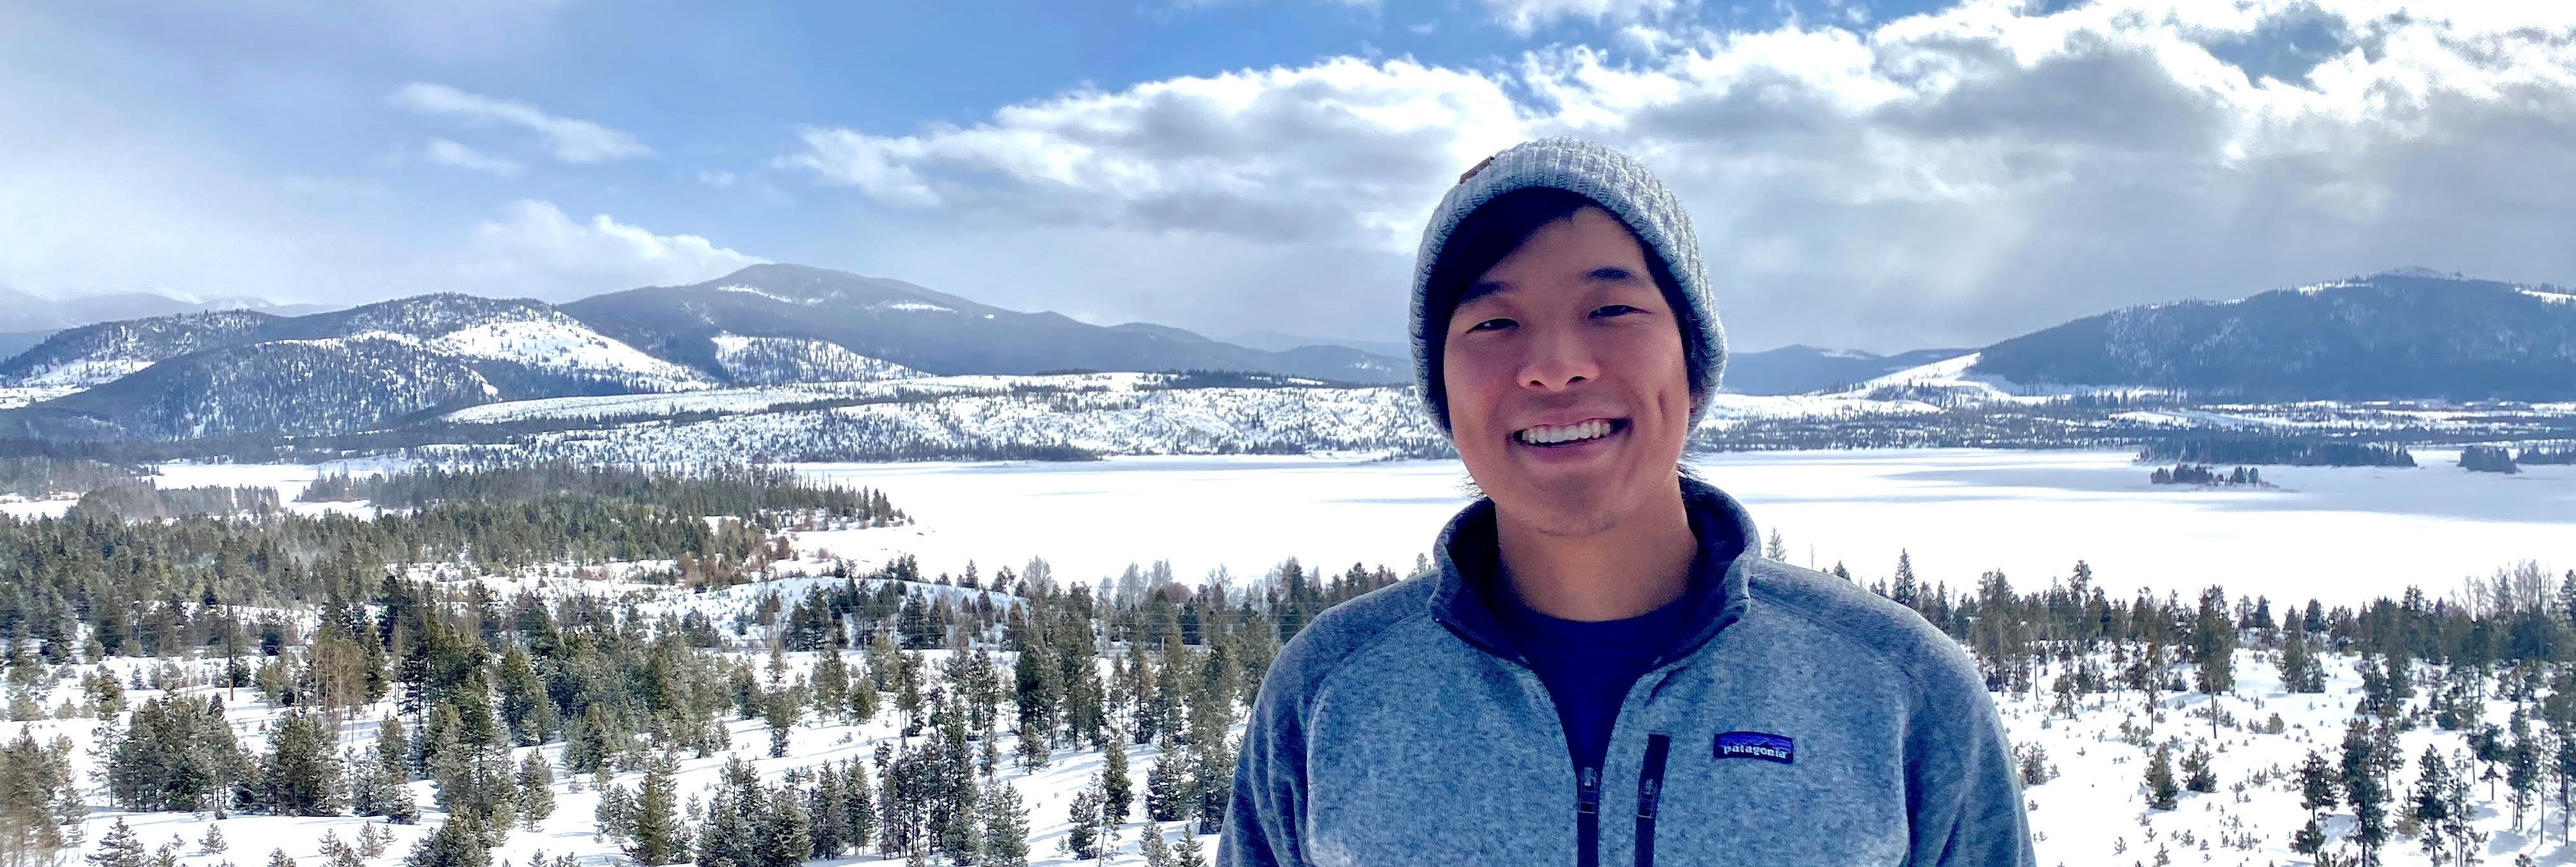
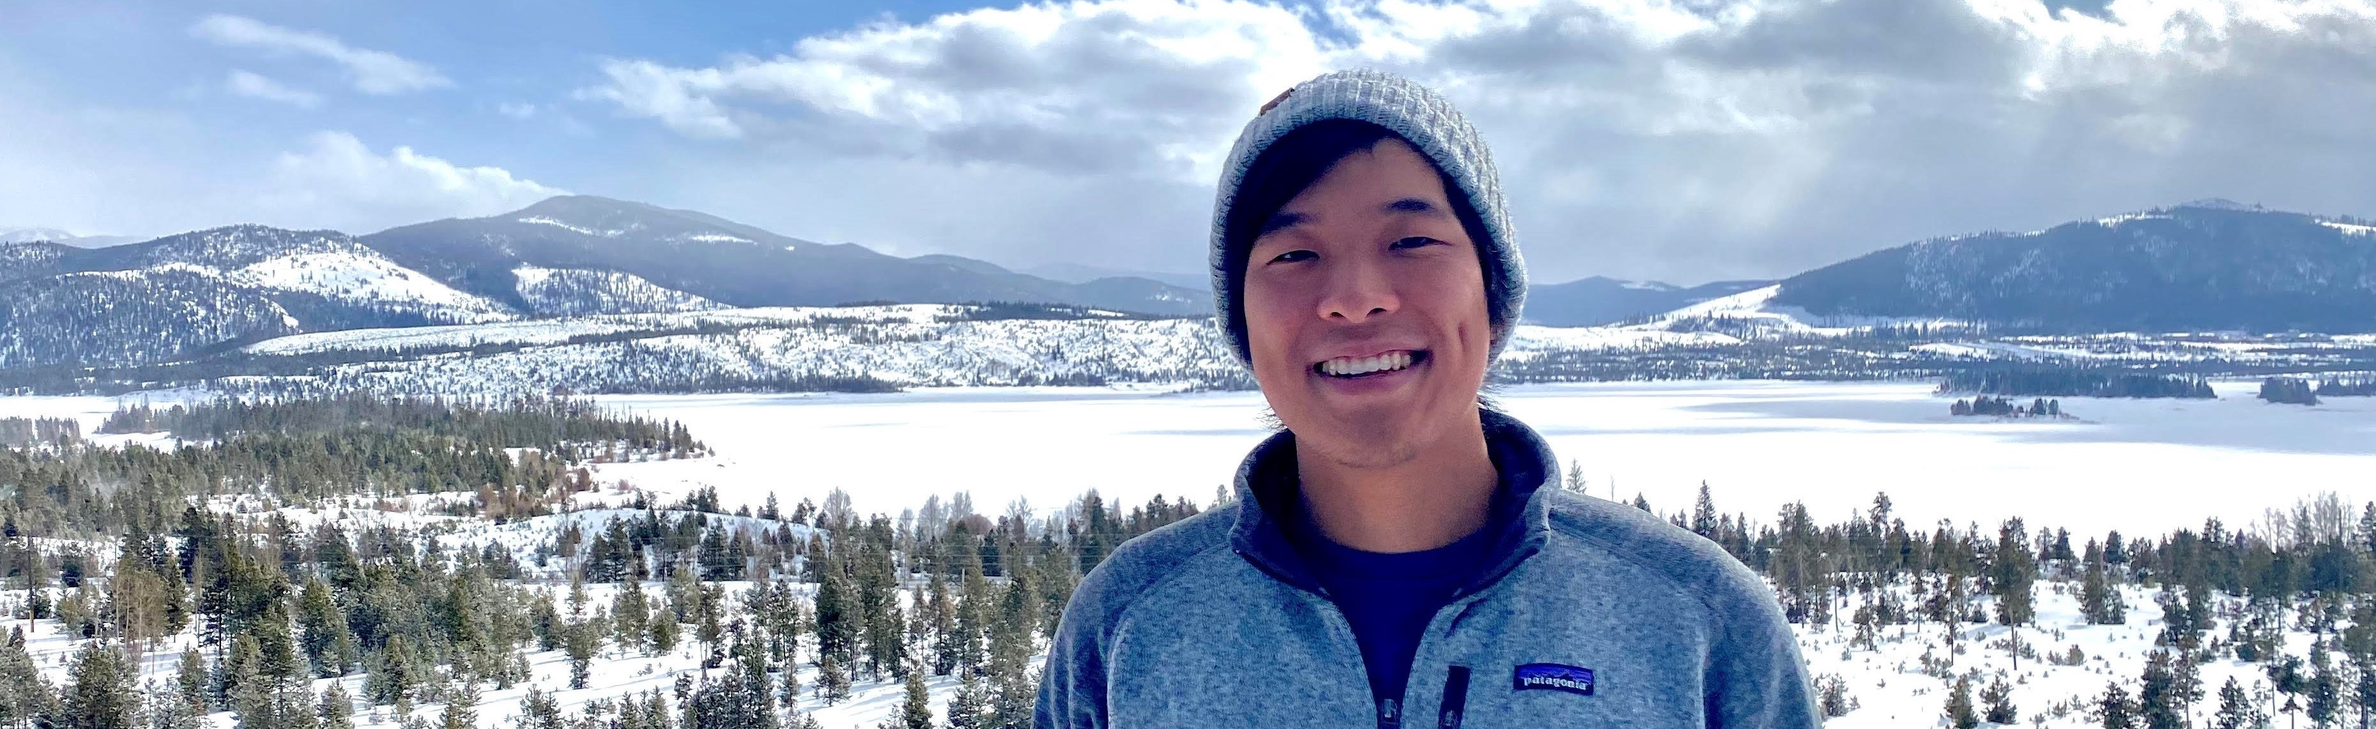
made home page responsive

diff --git a/src/components/header.js b/src/components/header.js
@@ -4,29 +4,37 @@ import headerStyles from '../styles/header.module.scss'
 
 const Header = () => {
     return (
-        <header>
-            <h1 className={headerStyles.headerFormat}>
-                <Link className={headerStyles.title} activeClassName={headerStyles.activeTitle} to="/">
-                    Evann Wu
-                </Link>
-            </h1>
-            <nav>
-                <ul className={headerStyles.navList}>
-                    <li>
-                        <Link className={headerStyles.navItem} activeClassName={headerStyles.activeNavItem} to="/blog">Blog</Link>
-                    </li>
-                    <li>
-                        <Link className={headerStyles.navItem} activeClassName={headerStyles.activeNavItem} to="/projects">Projects</Link>
-                    </li>
-                    <li>
-                        <a className={headerStyles.navItem} activeClassName={headerStyles.activeNavItem} href="../../resume.pdf">Resume</a>
-                    </li>
-                    <li>
-                        <Link className={headerStyles.navItem} activeClassName={headerStyles.activeNavItem} to="/dataViz">Data Visualization</Link>
-                    </li>
-                </ul>
-            </nav>
+        <header className={headerStyles.headerOrg}>
+            <div className={headerStyles.textMain}>
+                <h1 className={headerStyles.headerFormat}>
+                    <Link className={headerStyles.title} activeClassName={headerStyles.activeTitle} to="/">
+                        EVANN WU
+                    </Link>
+                </h1>
+                <nav>
+                    <ul className={headerStyles.navList}>
+                        <li>
+                            <Link className={headerStyles.navItem} activeClassName={headerStyles.activeNavItem} to="/projects">Projects</Link>
+                        </li>
+                        <li>
+                            <a className={headerStyles.navItem} activeClassName={headerStyles.activeNavItem} href="../../resume.pdf">Resume</a>
+                        </li>
+                        <li>
+                            <Link className={headerStyles.navItem} activeClassName={headerStyles.activeNavItem} to="/blog">Blog</Link>
+                        </li>
+                        {/* <li>
+                            <Link className={headerStyles.navItem} activeClassName={headerStyles.activeNavItem} to="/dataViz">Data Visualization</Link>
+                        </li> */}
+                    </ul>
+                </nav>
+            </div>
+            <div className={headerStyles.iconsList}>
+                <a className={headerStyles.iconAnchor} href="https://github.com/evannwu4"><img src="../../githubIcon.svg" alt="" className={headerStyles.icon} /></a>
+                <a className={headerStyles.iconAnchor} href="https://www.linkedin.com/in/evannwu/"><img src="../../linkedinIcon.png" alt="" className={headerStyles.icon} /></a>
+                <a className={headerStyles.iconAnchor} href="https://medium.com/@evannwu_15820"><img src="../../mediumIcon.png" alt="" className={headerStyles.icon} /></a>
+            </div>
         </header>
+
     )
 }
 

diff --git a/src/pages/index.js b/src/pages/index.js
@@ -12,21 +12,20 @@ const IndexPage = ({ data }) => {
             <img className={indexStyles.profileImg} src="../../profile.jpg" alt="" />
         
             </div>
-            <div className={indexStyles.introTextGroup}>
-
-                    <h3 className={indexStyles.introText}>
-                        I am a third-year undergraduate student studying electrical and computer engineering at Carnegie Mellon University. I have a strong interest in systems and software engineering and at CMU, I have pursued my interest through courses such as Embedded Systems (18-349), Computer Security (15-330), and Algorithms (15-210). My professional experience thus far has been software engineering internships at General Electric and IBM along with an incoming internship at Microsoft. If you are a recruiter interested in learning more about my work, check out my <a href="../../resume.pdf">resume</a>.
-                    </h3>
-                </div>
-
-            <h2>
+            <h2 className={indexStyles.headingElement}>
+                About Me
+            </h2>
+            <h3 className={indexStyles.introText}>
+                I am a fourth-year undergraduate student studying electrical and computer engineering at Carnegie Mellon University. I have a strong interest in systems and software engineering and at CMU, I have pursued my interest through courses such as Embedded Systems (18-349), Computer Security (15-330), and Algorithms (15-210). My professional experience thus far has been software engineering internships at General Electric and IBM along with an incoming internship at Microsoft. 
+                If you are a recruiter interested in learning more about my work, check out my <a className={indexStyles.link} href="../../resume.pdf">resume</a>.
+            </h3>
+            <br />
+            <h2 className={indexStyles.headingElement}>
                 Hobbies and Personal Interests
             </h2>
             <h3 className={indexStyles.hobbyElement}>
                 In my free time I enjoy playing tennis, swimming, and basketball. I love the outdoors and some of my favorite activities are hiking, camping, and kayaking. 
-            </h3>
-            <h3 className={indexStyles.hobbyElement}>
-                I am an avid participant of a CMU sport called buggy. If you don’t know anything about buggy here’s a cool <a href="https://www.youtube.com/watch?v=j0TpeSgX4u0">clip</a> of one of our races. I am a veteran mechanic on the team and work primarily on design, manufacturing, and optimization of buggies. 
+                I am an avid participant of a CMU sport called buggy. If you don’t know anything about buggy here’s a cool <a className={indexStyles.link} href="https://www.youtube.com/watch?v=j0TpeSgX4u0">clip</a> of one of our races. I am a veteran mechanic on the team and work primarily on design, manufacturing, and optimization of buggies. 
             </h3>
             <img
                 className={indexStyles.buggyImg}

diff --git a/src/styles/header.module.scss b/src/styles/header.module.scss
@@ -1,7 +1,38 @@
+.header-org {
+    display: flex;
+    flex-direction: row;
+}
+
+.text-main {
+    margin-left: 13vw;
+    margin-right: 13vw;
+}
+
+.icons-list {
+    display: flex;
+    flex-direction: column;
+    margin-top: 20px;
+}
+
+.icon {
+    width: 25px;
+    height: 25px;
+    border-radius: 20%;
+    margin-bottom: 0;
+    margin-top: 0;
+}
+
+.icon-anchor {
+    margin-top: 5px;
+    margin-bottom: 0;
+}
+
 .title {
     color: #000000;
-    font-size: 3.3rem;
+    font-size: 3rem;
     text-decoration: none;
+    letter-spacing: 10px;
+    margin-left: 10px;
 }
 
 .title:hover {
@@ -21,17 +52,52 @@
 }
 
 .nav-item {
-    color: #999999;
+    color: #6b6b6b;
     font-size: 1.3rem;
-    margin-right: 0.7rem;
-    margin-left: 0.7rem;
+    margin-right: 2rem;
+    margin-left: 2rem;
     text-decoration: none;
 }
 
 .nav-item:hover {
-    color: #666666;
+    color: #383838;
+    text-decoration: underline;
 }
 
 .active-nav-item {
-    color: #333333;
+    color: #0a0a0a;
+}
+
+@media screen and (max-width: 800px) {
+    .header-format {
+        text-align: center;
+        max-width: 80vw;
+    }
+    .header-org {
+        display: flex;
+        flex-direction: row;
+        max-width: 80vw;
+    }
+    
+    .text-main {
+        margin-left: 0;
+        margin-right: 0;
+    }
+    
+    .icons-list {
+        display: none;
+    }
+      
+    .title {
+        color: #000000;
+        font-size: 7vw;
+        text-decoration: none;
+        letter-spacing: 2vw;
+        max-width: 80vw;
+    }
+    
+    .nav-list {
+        display: none;
+    }
+    
 }

diff --git a/src/styles/index.module.scss b/src/styles/index.module.scss
@@ -15,13 +15,23 @@
     padding-top: 20px;
 }
 
+.heading-element {
+    font-size: 1.7em;
+}
+
 .hobby-element {
     padding-left: 10px;
-    font-size: 1.1em;
+    font-size: 1.3em;
+
     max-width: 60vw;
 }
 
+.link {
+    font-weight: 600;
+}
+
 .intro-text {
+    padding-left: 10px;
     font-size: 1.3em;
     max-width: 60vw;
 }
@@ -37,9 +47,47 @@
     max-width: 60vw;
 }
 
-.intro-text-group {
-    display: flex;
-    flex-direction: column;
-    margin-left: 25px;
-    margin-bottom: 20px;
+@media screen and (max-width: 800px) {
+    .profile-img {
+        max-width: 80vw;
+        display: block;
+        margin-left: auto;
+        margin-right: auto;
+        margin-bottom: 10px;
+    }
+    .buggy-img {
+        width: 80vw;
+        display: block;
+        margin-left: auto;
+        margin-right: auto;
+        margin-top: 10px;
+        padding-top: 20px;
+    }
+    
+    .heading-element {
+        font-size: 5.5vw;
+    }
+    
+    .hobby-element {
+        padding-left: 0;
+        font-size: 4vw;
+    
+        max-width: 80vw;
+    }
+    
+    .link {
+        font-weight: 600;
+    }
+    
+    .intro-text {
+        padding-left: 0;
+        font-size: 4vw;
+        max-width: 80vw;
+    }
+    
+    .photo-intro {
+        display: flex;
+        flex-direction: row;
+        max-width: 80vw;
+    }
 }

diff --git a/src/pages/projects.js b/src/pages/projects.js
@@ -3,11 +3,7 @@ import Layout from '../components/layout'
 import projectsStyle from '../styles/projects.module.scss'
 
 const ProjectPage = () => {
-    const loadLink = function(link) {
-        window.location.href = link;
-    };
     return (
-
         <Layout>
             <h1>Projects</h1>
             <div className={projectsStyle.projectItem}>

diff --git a/src/styles/layout.module.scss b/src/styles/layout.module.scss
@@ -16,3 +16,15 @@
     margin-left: auto;
     margin-right: auto;
 }
+
+@media screen and (max-width: 800px) {
+    .container {
+        margin: 0 auto;
+        max-width: 80vw;
+        padding: 1rem;
+    
+        display: flex;
+        flex-direction: column;
+        min-height: 100vh;
+    }
+}
